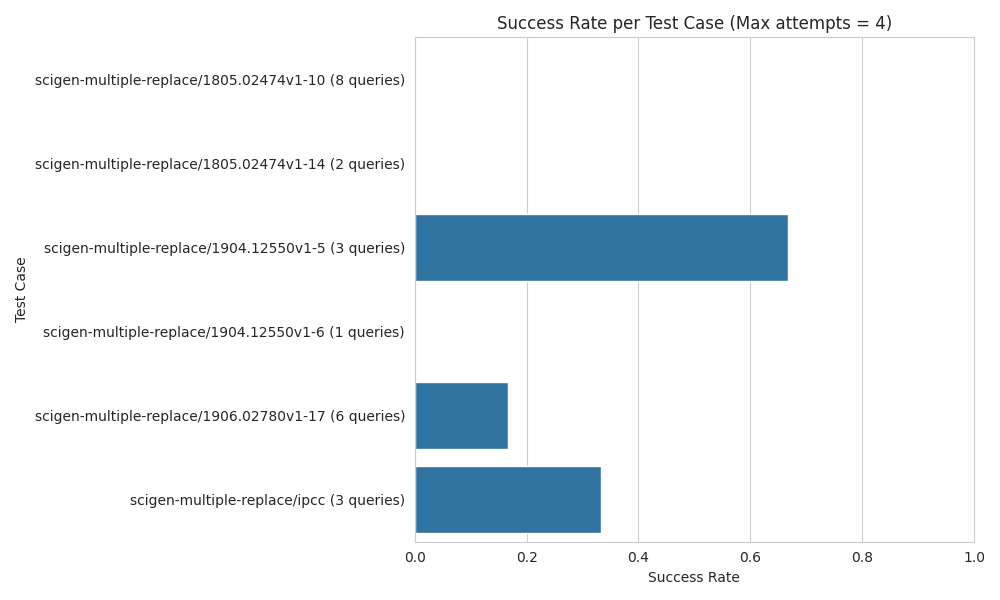
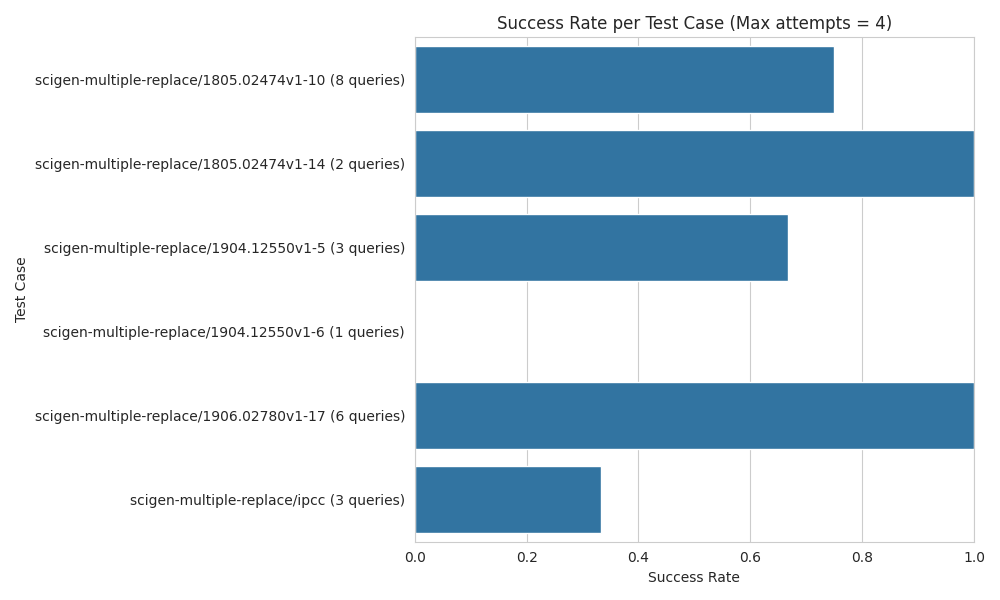
[tex] add figures

Changed region(s): [[0.403, 0.06, 0.992, 0.33], [0.496, 0.63, 0.992, 0.75]]

diff --git a/sec/authoring-workflow.tex b/sec/authoring-workflow.tex
@@ -4,10 +4,10 @@
 \begin{figure}
     \centering
     \includegraphics[width=0.95\linewidth]{fig/authoring-assistant-architecture.png}
-    \caption{AI-assisted authoring workflow}
+    \caption{AI-assisted authoring workflow}\label{fig:architecture}
 \end{figure}
 
-\subsection{Editor Loop}
+\subsection{Editor Loop}\label{subsec:editor-loop}
 Design of main loop that would be integrated into an IDE. The configuration (state) that is being maintained
 is a \kw{Paragraph} the user is authoring in Fluid. Consists of a sequence of text fragments, some of which
 are uninterpreted (plain literals), the remainder have underlying expressions linking the text to raw or derived
@@ -30,21 +30,37 @@ incorporate expression into \kw{Paragraph}
 \item Goto (1) with updated editor state
 \end{enumerate}
 
-\subsection{Turning validation errors into improved prompts}
+\subsection{Turning validation errors into improved prompts}\label{subsec:turning-validation-errors-into-improved-prompts}
 E.g.:
 \begin{enumerate}
 \item Turn ``Definition not found'' into prompt to generate definition?
 \end{enumerate}
 
-\subsection{IDE integration}
+\subsection{IDE integration}\label{subsec:ide-integration}
 
 Could then be integrated into desktop IDE like VSCode or online IDE like CodeMirror. Might make a good
 internship project, but could also be out-of-scope for this paper.
 
-\subsection{Other potential enhancements}
+\subsection{Other potential enhancements}\label{subsec:other-potential-enhancements}
 
 We could also think about using an LLM in a couple of other complementary ways:
 \begin{itemize}
 \item identifying text fragments which might be linked;
 \item validating generated expressions (perhaps by proposing test cases)
 \end{itemize}
+
+
+\section{Results}
+\label{sec:results}
+
+\subsection{Success Rate by Testcase}
+\label{subsec:success_rate_by_test_case}
+
+\begin{figure}[!h]
+    \centering
+    \includegraphics[width=0.95\linewidth]{fig/success_rate_by_test_case}
+    \caption{Success rate by testcases}\label{fig:success_rate_by_test_case}
+\end{figure}
+
+
+
